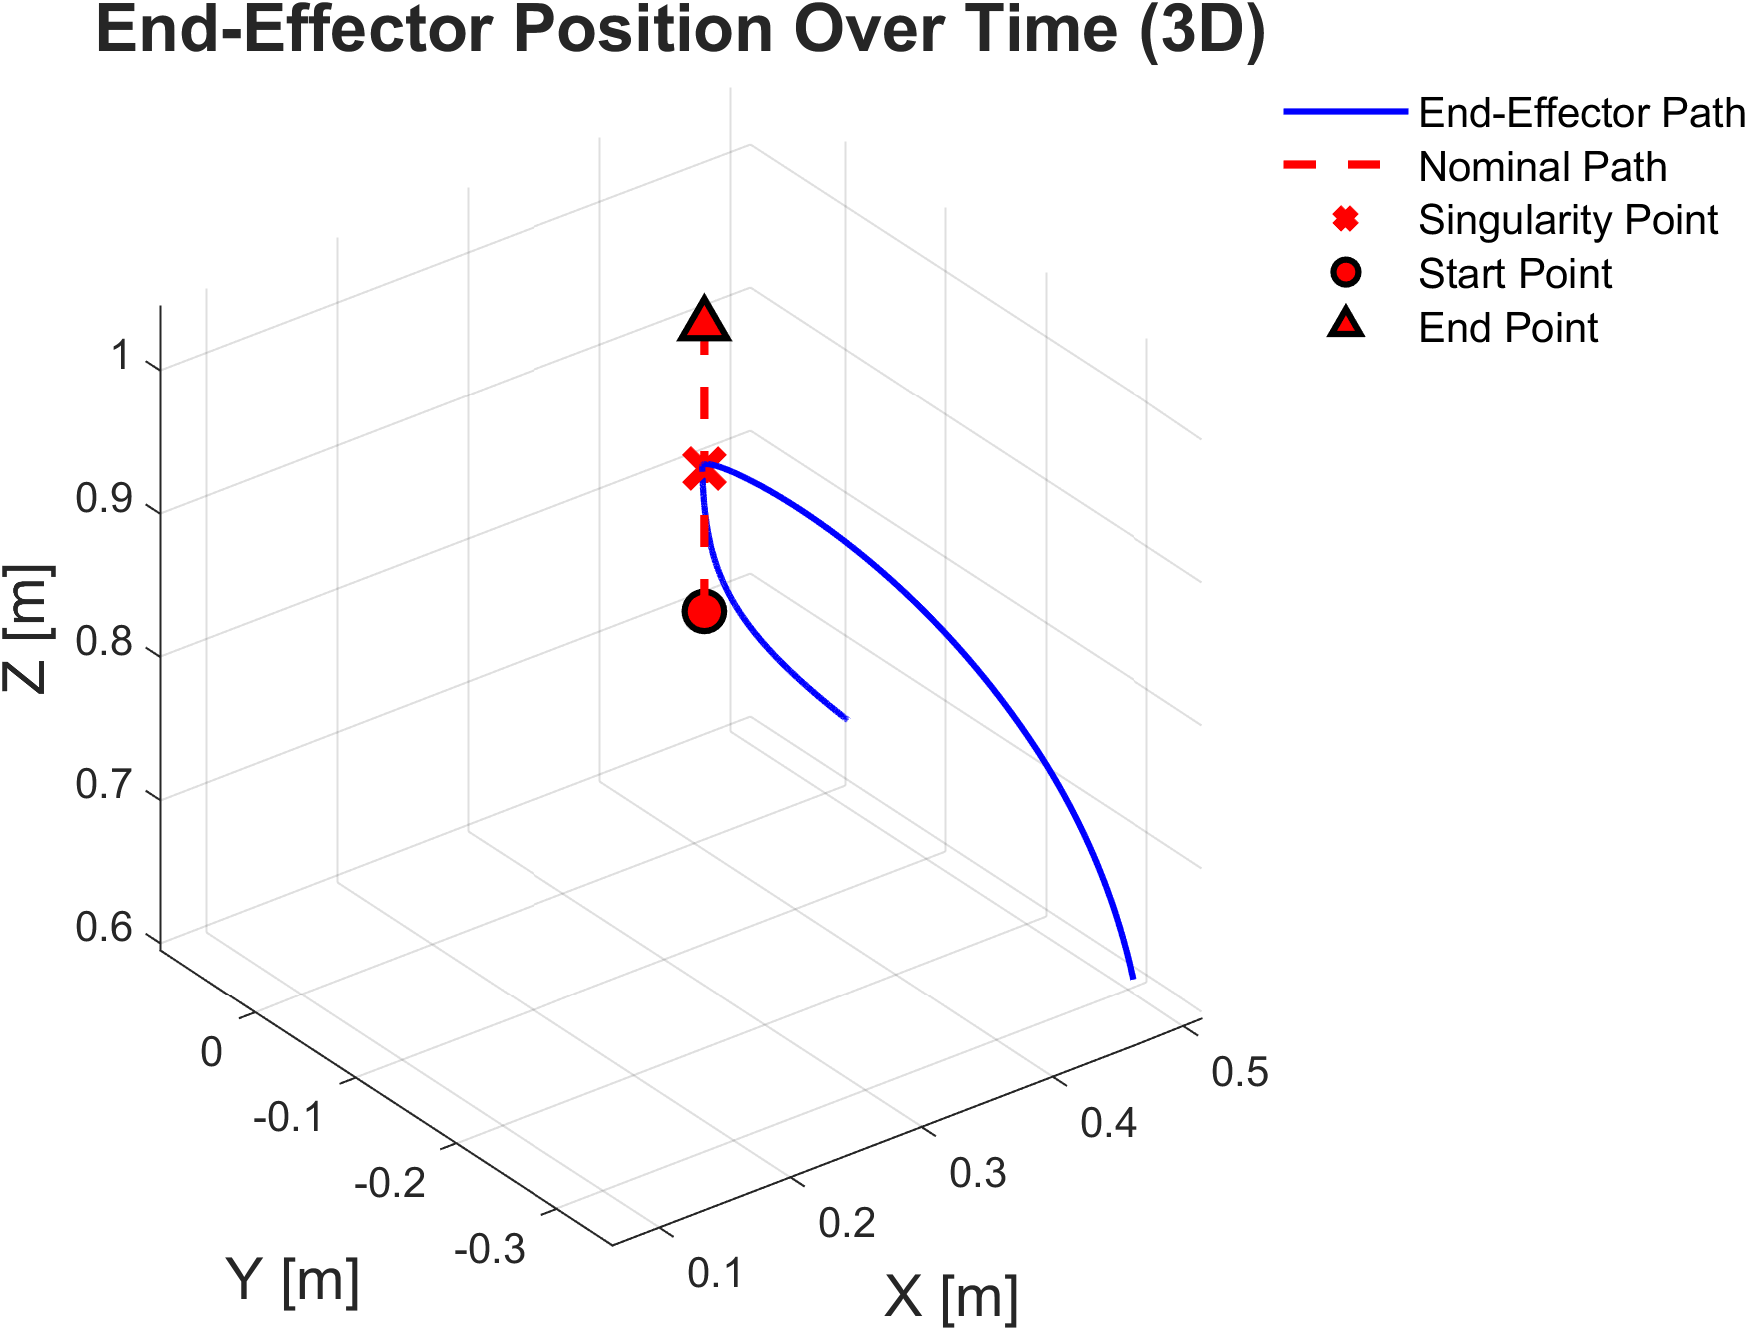
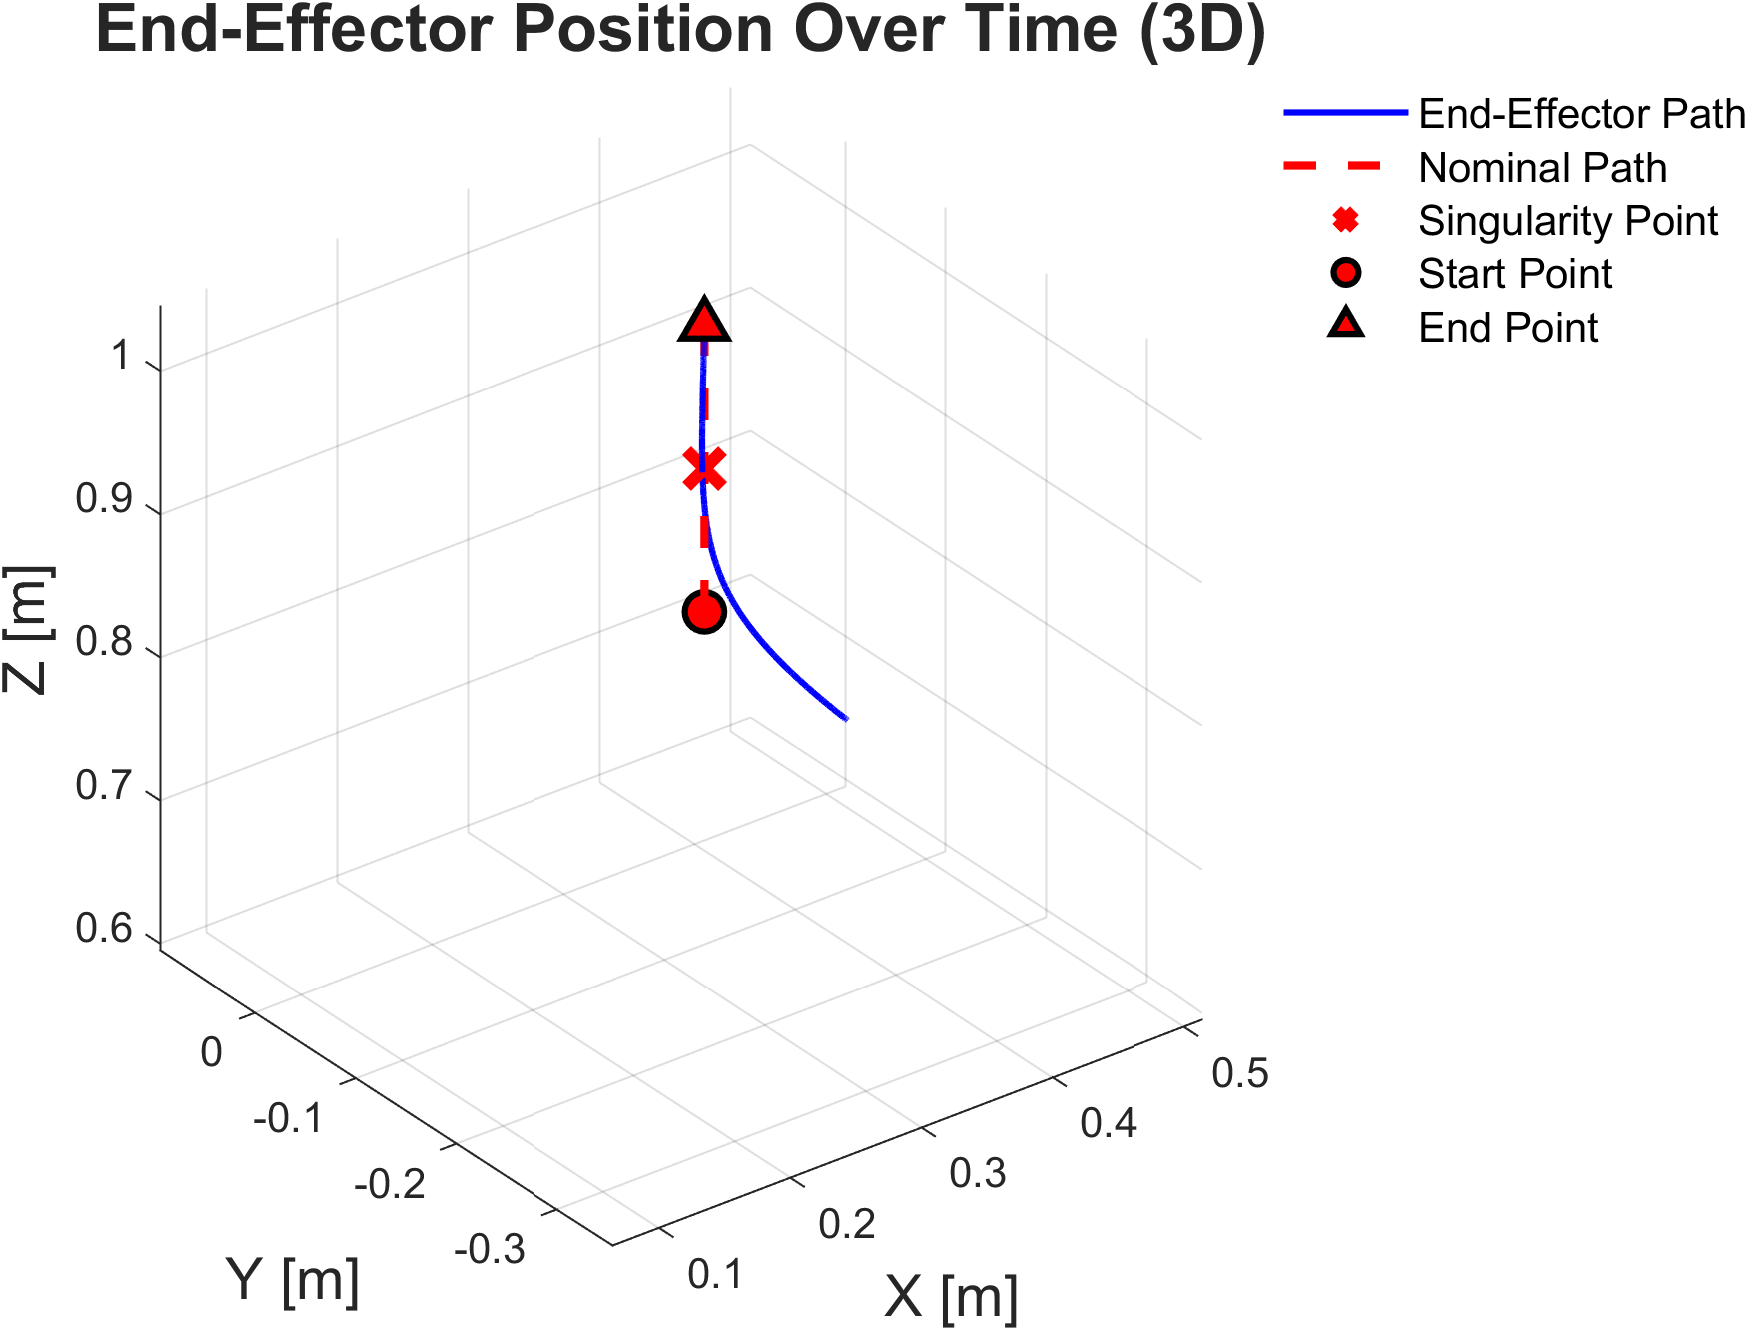
colpa di luca come al solito

diff --git a/src/RG_position_accel.m b/src/RG_position_accel.m
@@ -4,6 +4,7 @@ close all
 digits 4
 addpath("./Matlab_Scripts/Redundancy/")
 addpath("./Matlab_Scripts/Robotics1/")
+addpath("./Plots/")
 addpath("./Trajectory/")
 
 % GLOBALS
@@ -106,8 +107,8 @@ pause; % wait for user input to start the simulation
 while t < t_fin % run for a fixed time
 
     if t > T/2
-        qA_idx = [1,4,5]; % indices of joints in A (nonsingular)
-        qB_idx = [2, 3, 6, 7]; % indices of joints in B (N-M = 4)
+      qA_idx = [1,2,6]; % indices of joints in A (nonsingular)
+      qB_idx = [3, 4, 5, 7]; % indices of joints in B (N-M = 4)
     end
 
     % Nominal Trajectory
